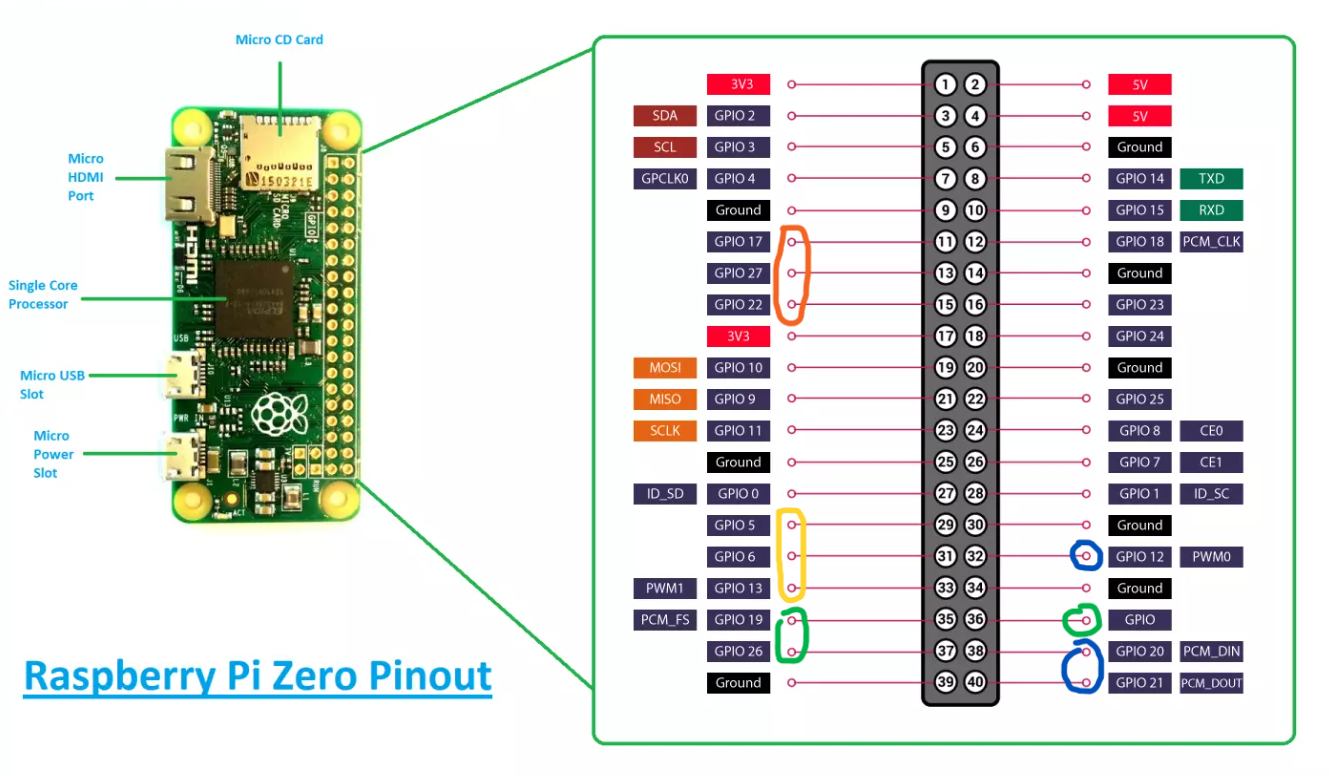
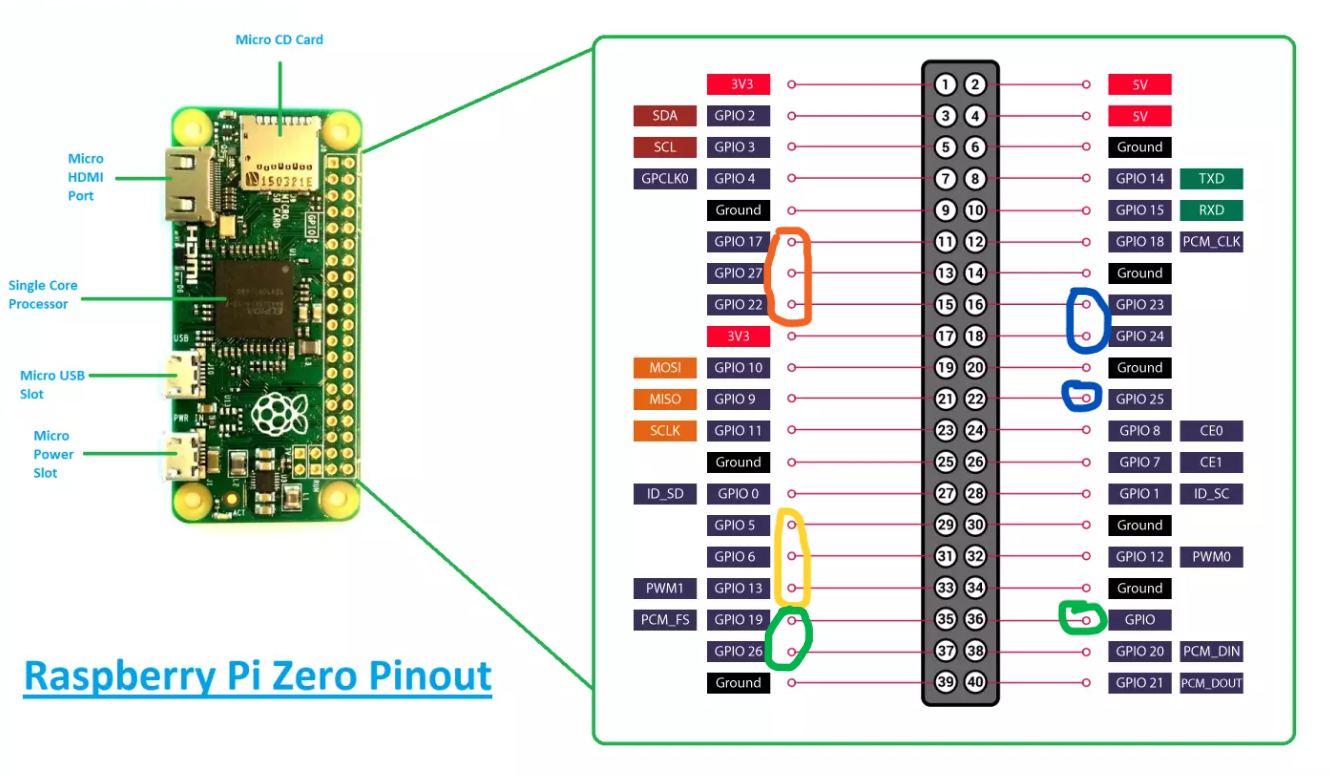
change BACK pin numbers for LED_4

diff --git a/config.py b/config.py
@@ -20,6 +20,6 @@ BLU_LED_3 = 16
 
 # LED Batch 4
 
-RED_LED_4 = 23
-GRN_LED_4 = 24
-BLU_LED_4 = 25
+RED_LED_4 = 12
+GRN_LED_4 = 20
+BLU_LED_4 = 21
